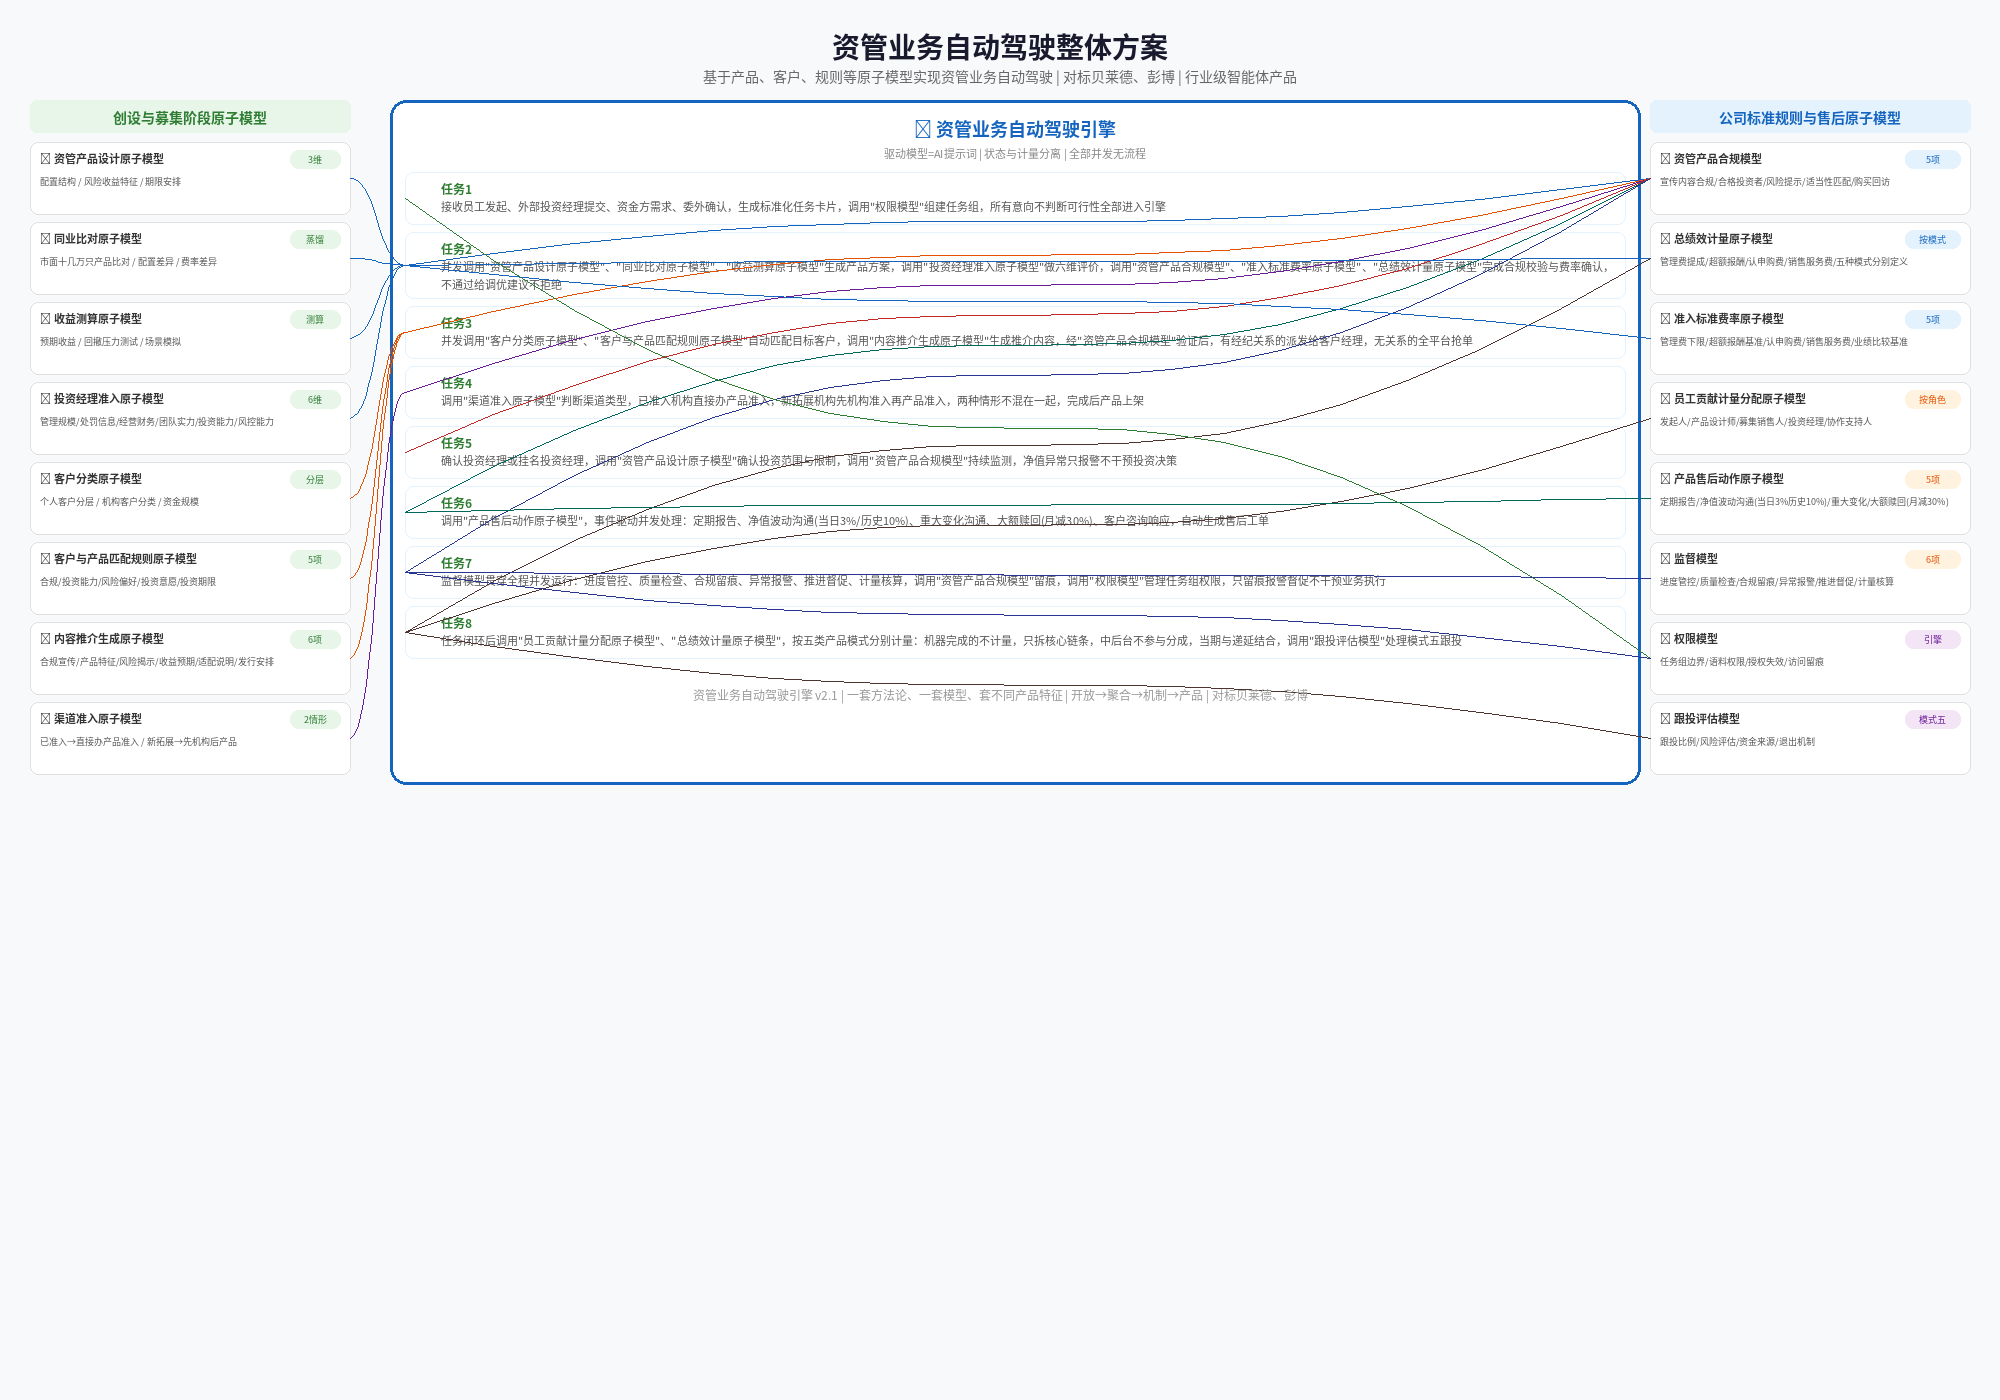
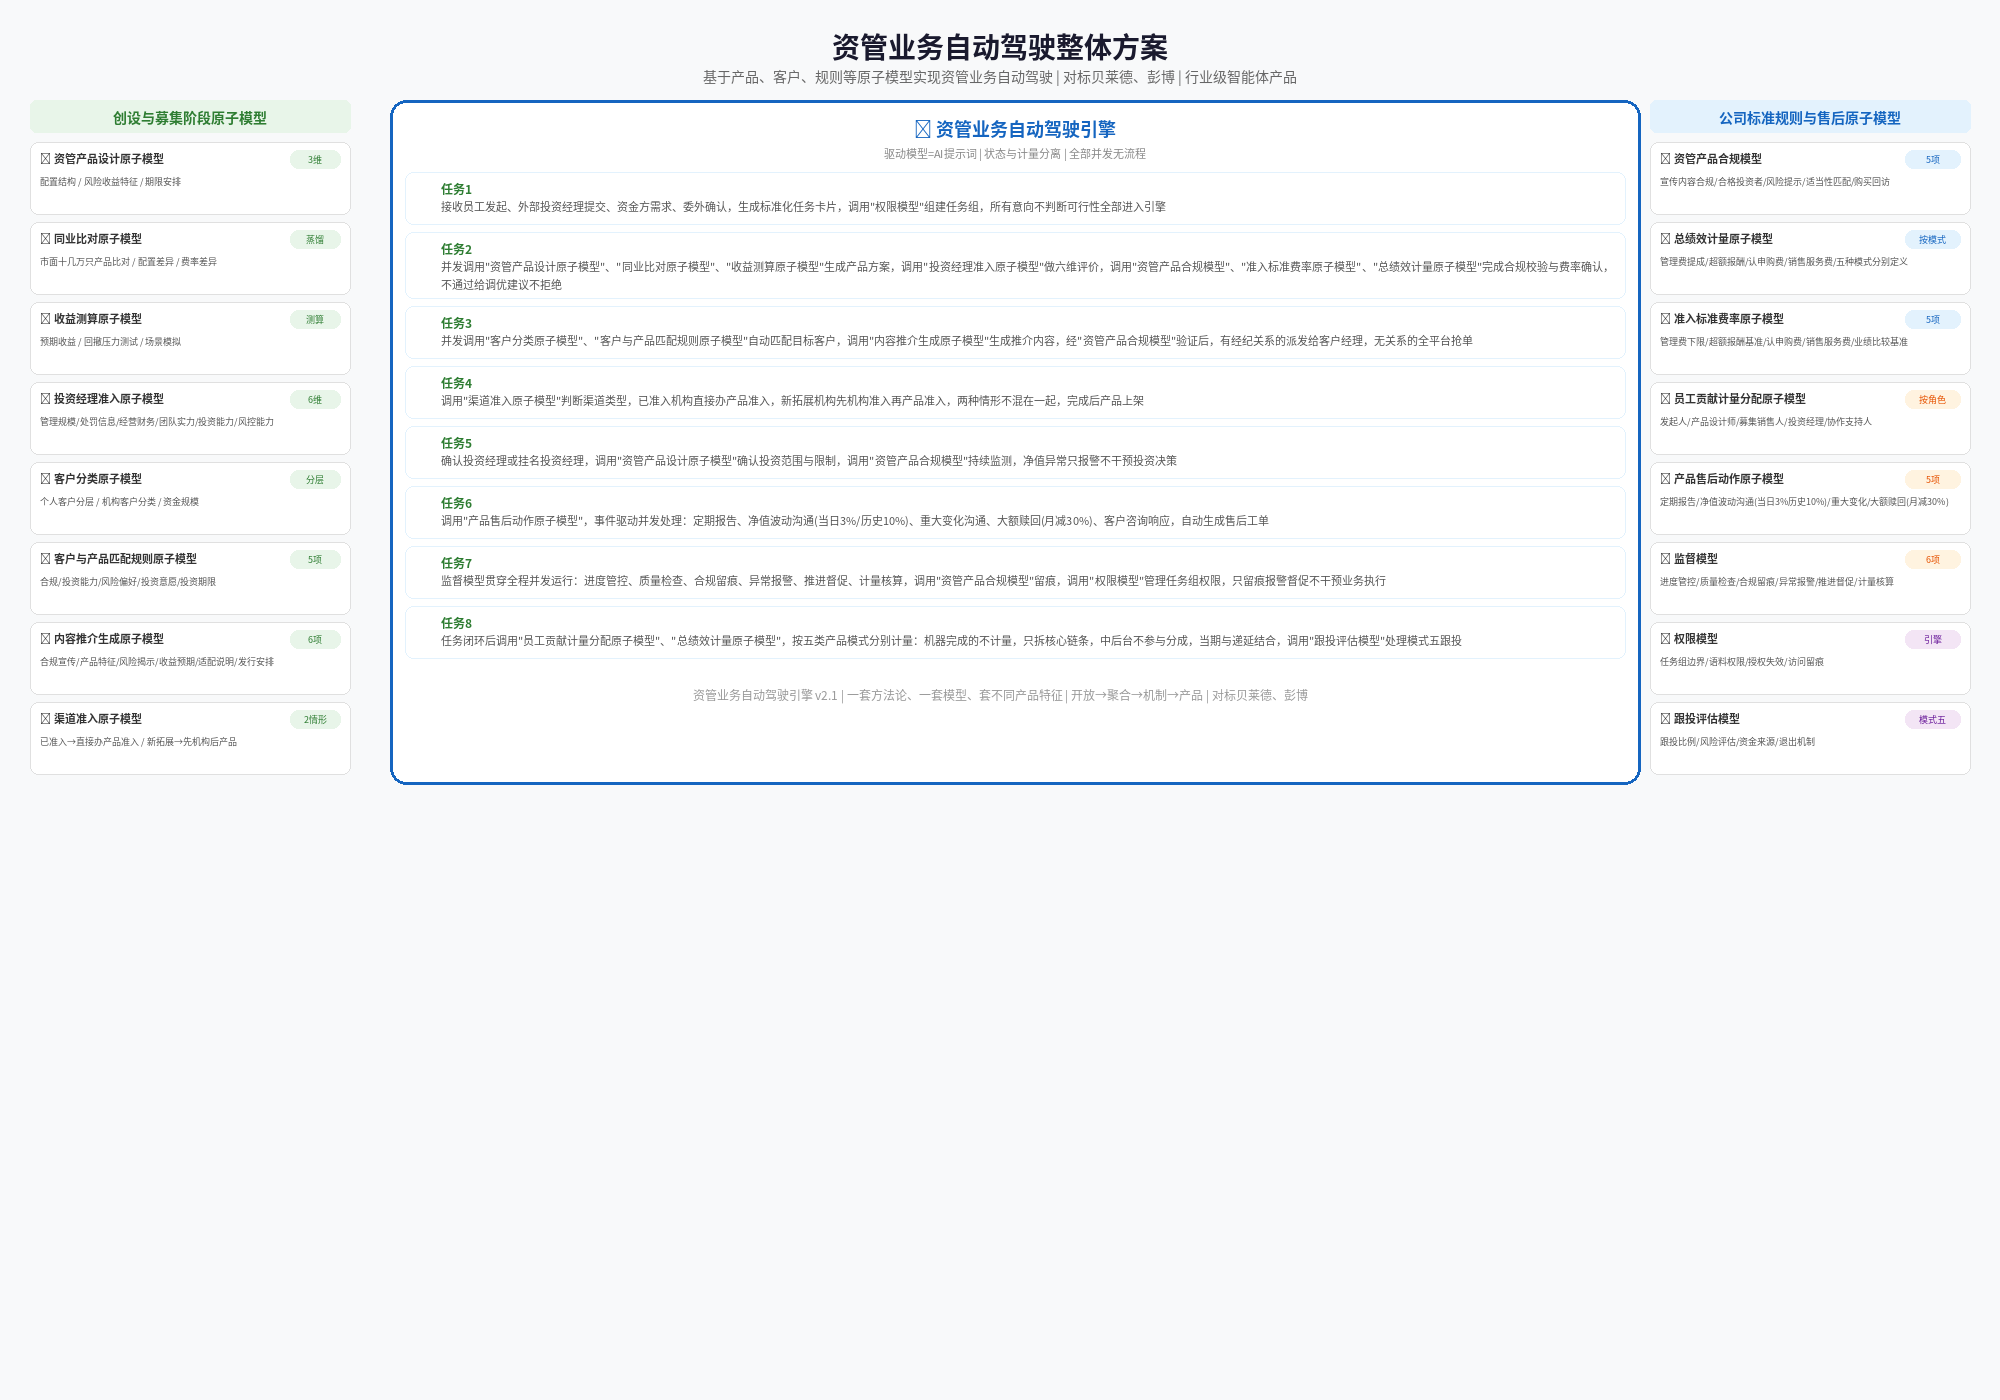
更新：资管方案架构图 - 移除连接线

Changed region(s): [[0.775, 0.1229, 0.806, 0.1536]]

diff --git a/diagrams/generate_asset_mgmt_diagram.py b/diagrams/generate_asset_mgmt_diagram.py
@@ -257,22 +257,9 @@ for idx, (num, color, text) in enumerate(tasks):
     task_y += task_h + 8
 
 # ==================== 连接线 ====================
-left_conn = [
-    (0, 1), (1, 1), (2, 1), (3, 1),  # 创设模型 → task2
-    (4, 2), (5, 2), (6, 2),           # 募集模型 → task3
-    (7, 3),                            # 渠道准入 → task4
-]
-
-right_conn = [
-    (0, 1), (0, 2), (0, 3), (0, 4), (0, 5), (0, 6),  # 合规 → 多任务
-    (1, 1), (1, 7),  # 绩效计量 → task2, task8
-    (2, 1),          # 费率 → task2
-    (3, 7),          # 贡献计量 → task8
-    (4, 5),          # 售后动作 → task6
-    (5, 6),          # 监督 → task7
-    (6, 0), (6, 6),  # 权限 → task1, task7
-    (7, 7),          # 跟投评估 → task8
-]
+# 连接线已移除（用户要求）
+left_conn = []
+right_conn = []
 
 for model_idx, task_idx in left_conn:
     lx, ly = left_card_positions[model_idx]
